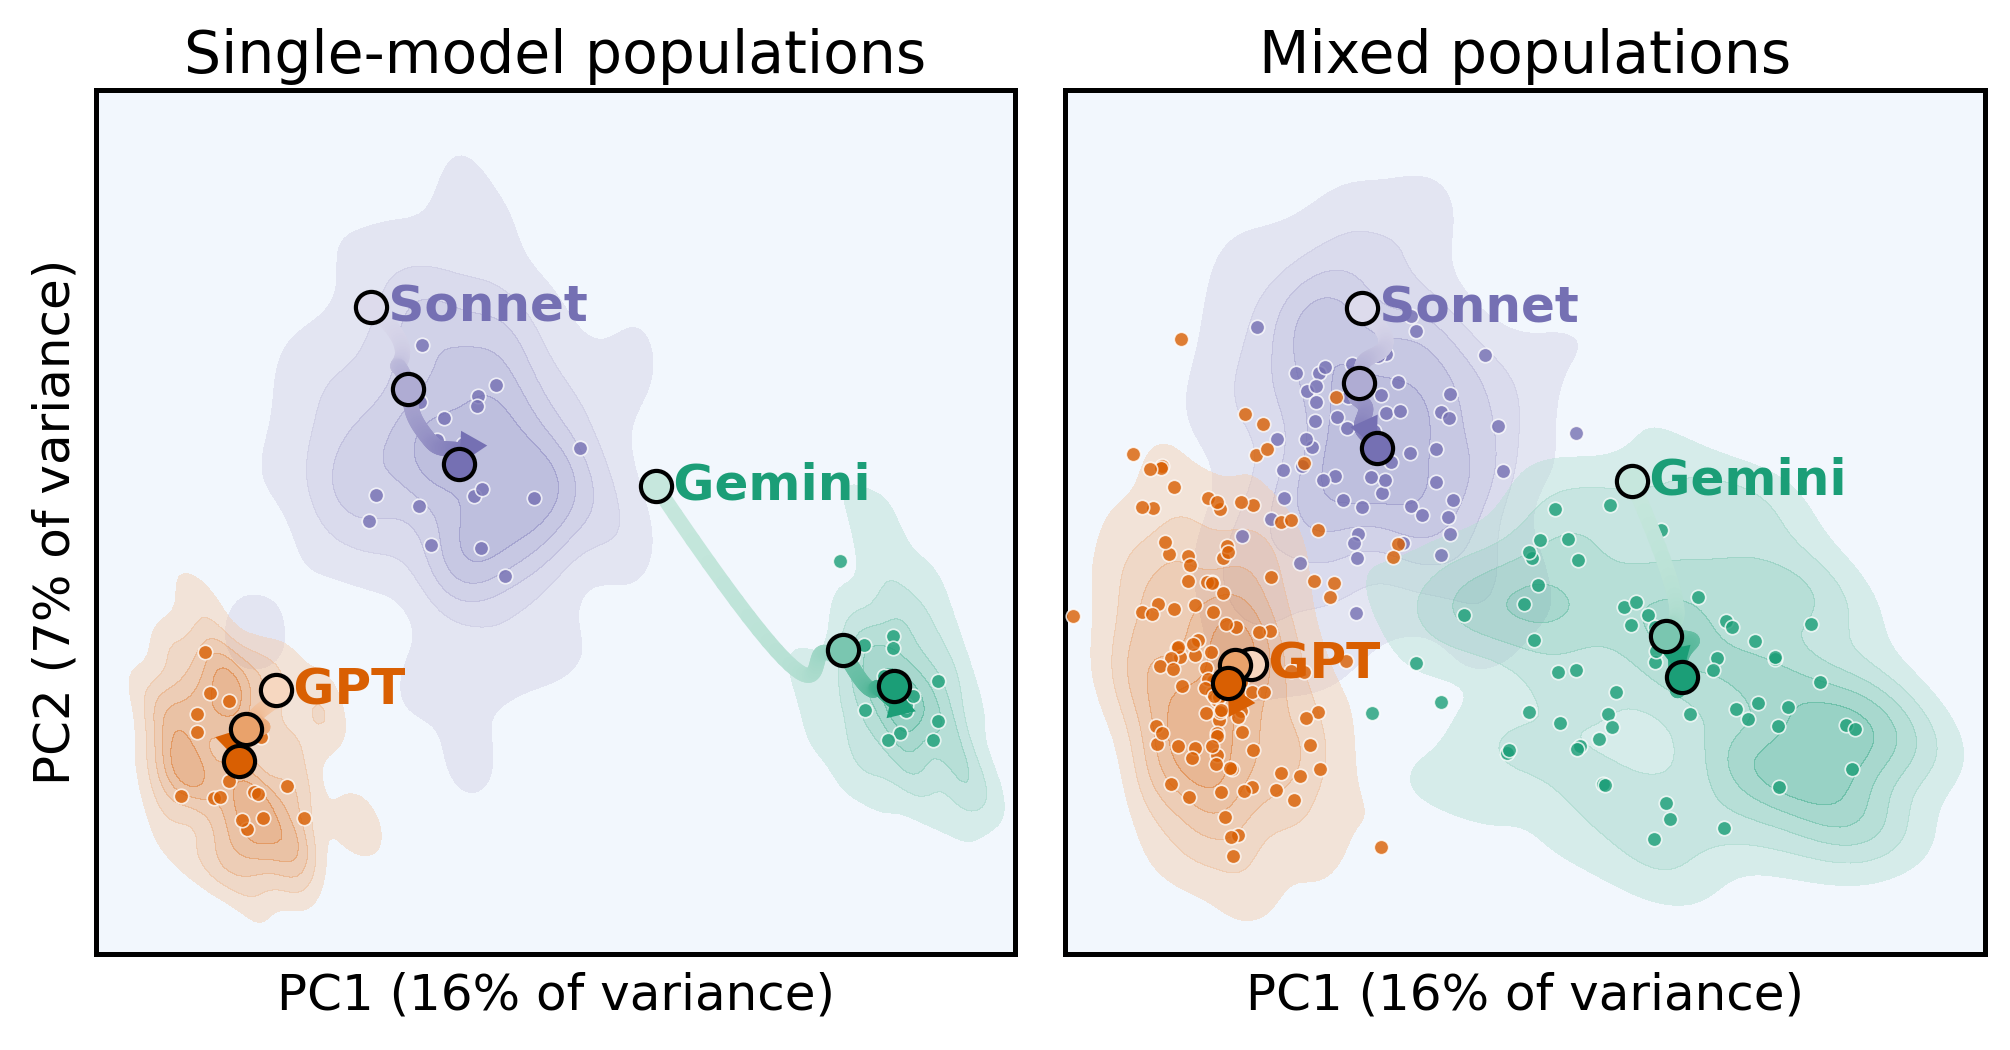
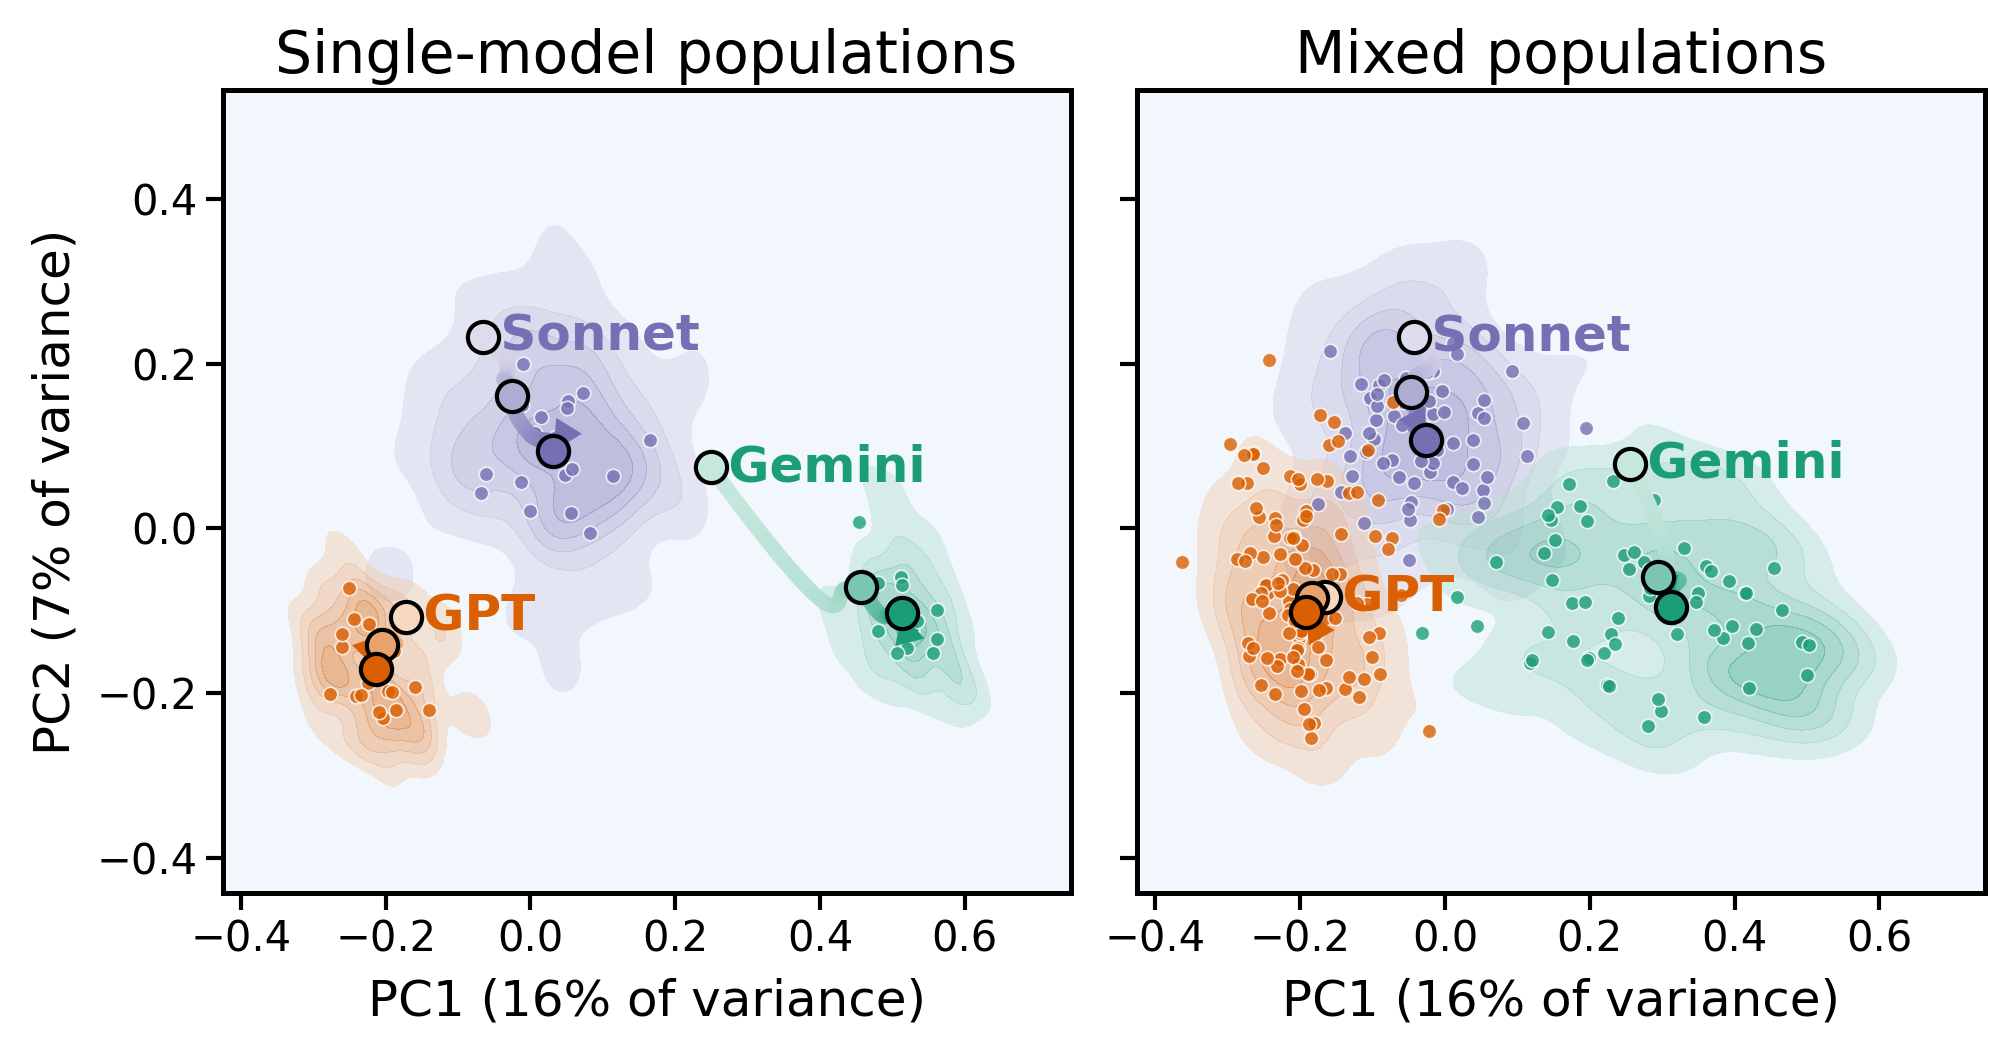
Fig 5b: restore axis ticks and the full-corpus axis limits of trajectories_*.png

Changed region(s): [[0.0, 0.0305, 1.0, 0.9752], [0.6169, 0.0305, 0.9254, 0.0914], [0.0617, 0.1524, 0.1234, 0.2133]]

diff --git a/analyses/plot_myth_trajectory_panel.py b/analyses/plot_myth_trajectory_panel.py
@@ -38,8 +38,6 @@ def main() -> None:
     myths, emb = load(ds)
     m = Map(myths, emb)
     cell = myths[myths["size"] == SIZE]
-    xr = (cell.x.quantile(0.002) - 0.03, cell.x.quantile(0.998) + 0.03)  # outermost 0.2% fall outside the frame
-    yr = (cell.y.quantile(0.002) - 0.03, cell.y.quantile(0.998) + 0.03)
     rounds = np.array(ROUNDS)
     t = np.linspace(rounds[0], rounds[-1], 120)
 
@@ -76,10 +74,9 @@ def main() -> None:
         kind = "Single-model" if not mixed else "Mixed"
         ax.set_title(f"{kind} populations", fontsize=7, pad=2)  # run counts go in the caption
         print(f"{kind}: {runs.run_id.nunique()} runs")
-        ax.set_xlim(*xr)
-        ax.set_ylim(*yr)
-        ax.set_xticks([])
-        ax.set_yticks([])
+        ax.set_xlim(*m.xr)  # full-corpus extent, as in trajectories_*.png
+        ax.set_ylim(*m.yr)
+        ax.tick_params(labelsize=5, length=2, width=0.5, pad=1)
         for sp in ax.spines.values():
             sp.set_linewidth(0.6)
         ax.set_xlabel(m.xlabel, fontsize=6, labelpad=2)
